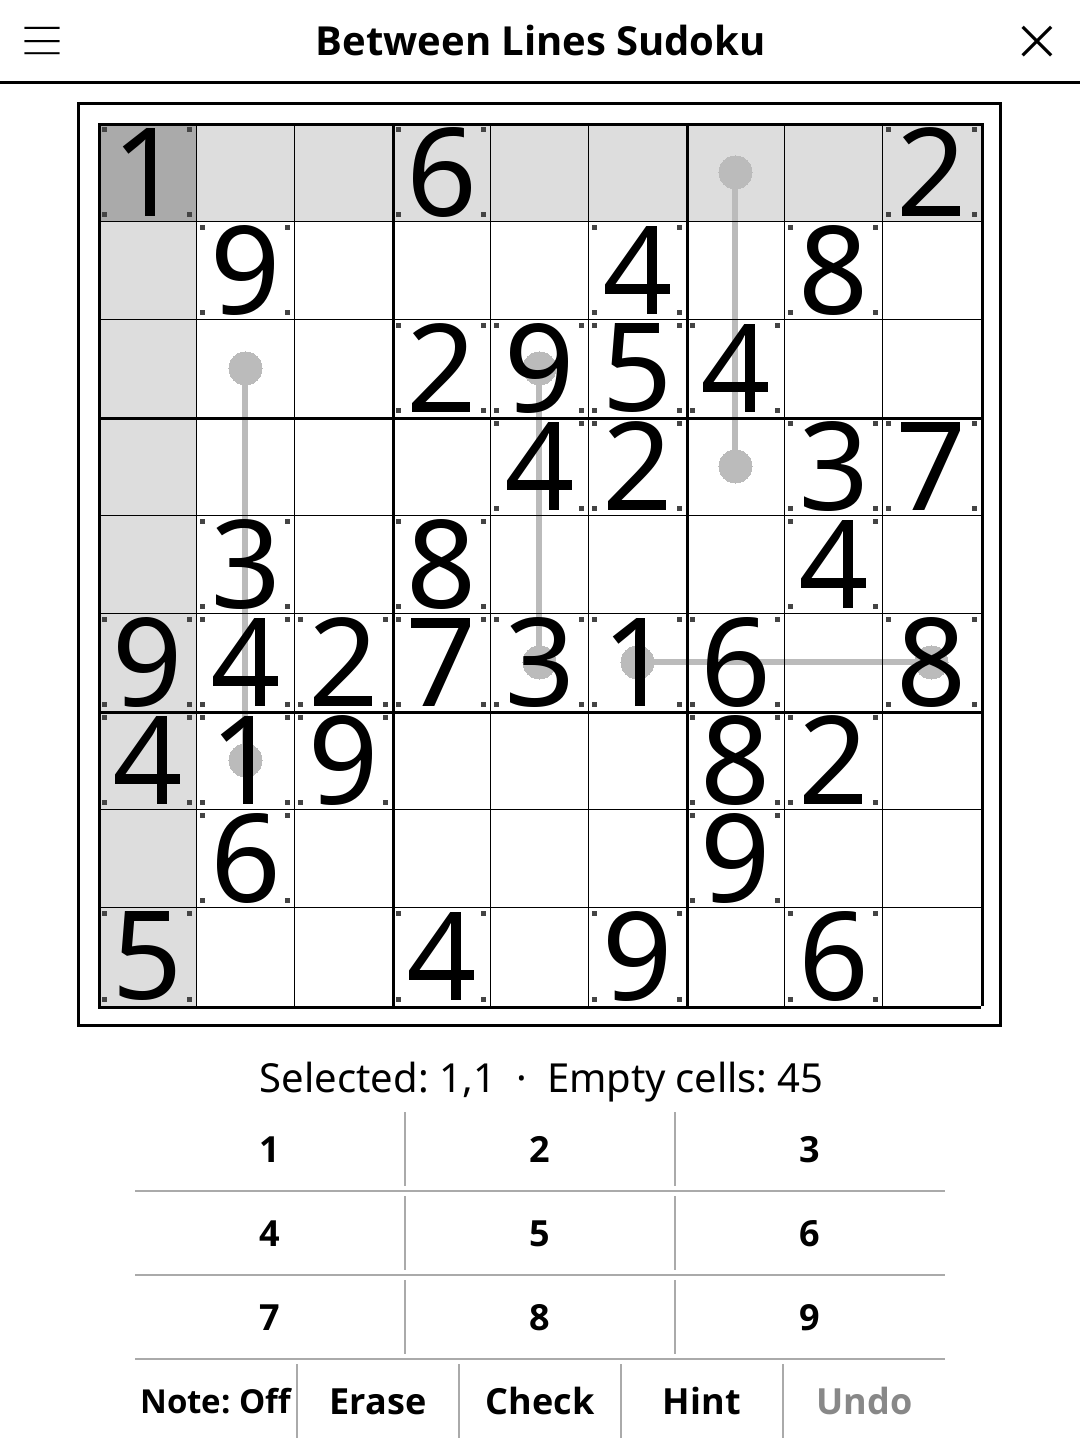
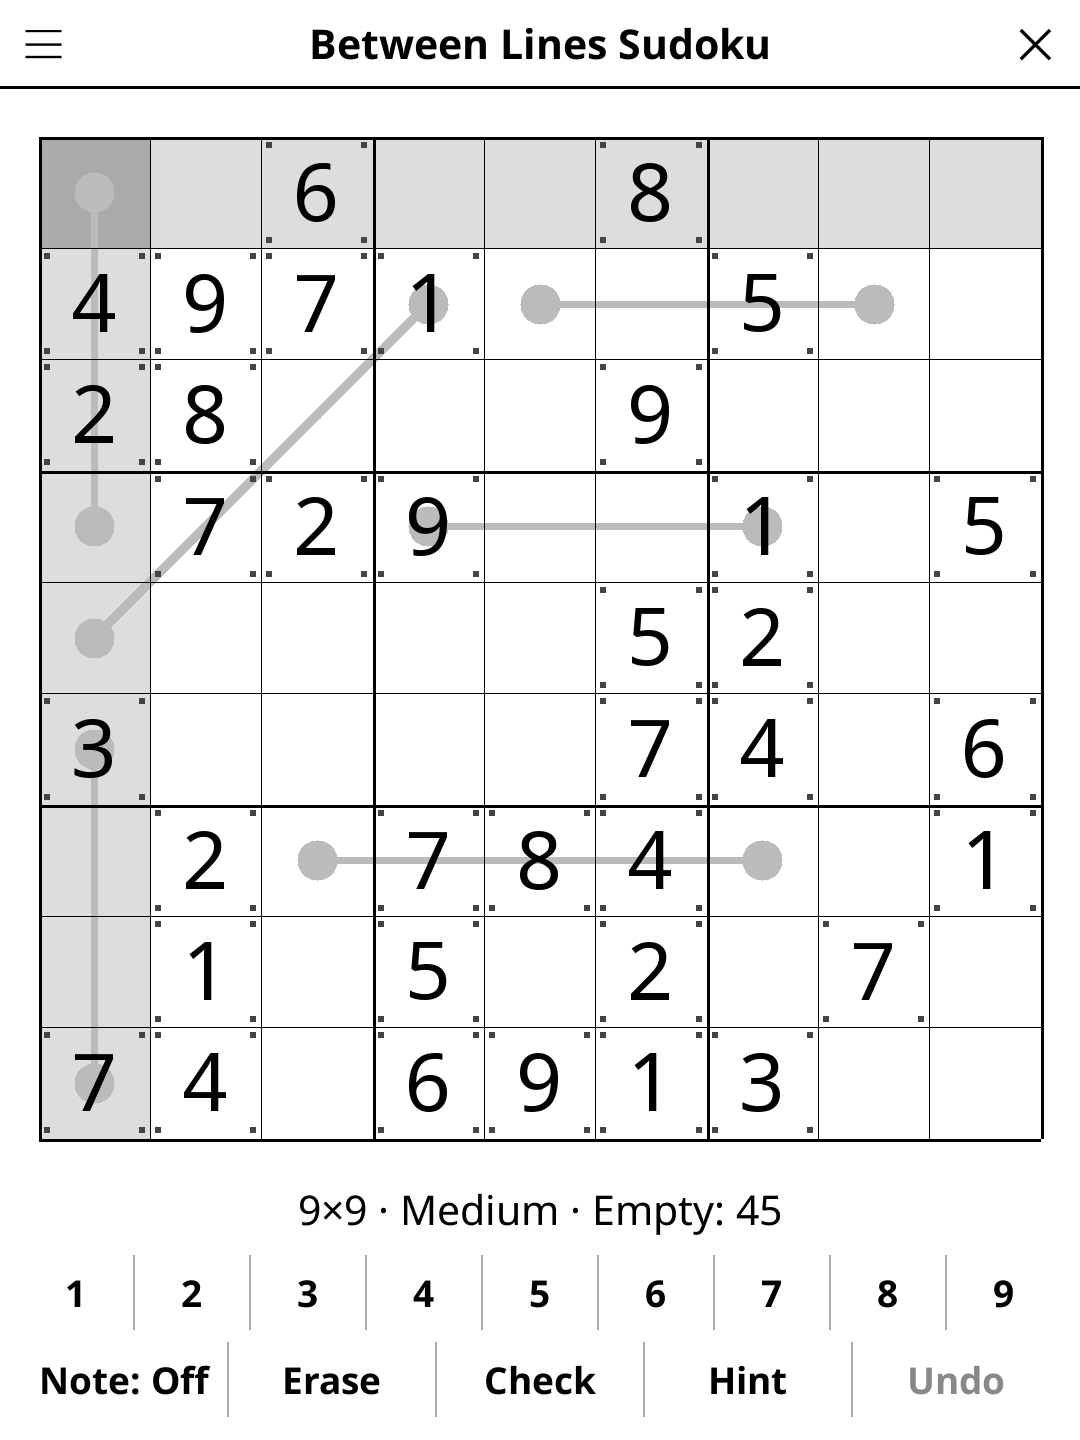
release: 1.4.0 -- redesigned screen, harmonised menu, New game at round end
Screen redesign (full-width action bar, unified pad, status line, larger
board), harmonised title-bar menu, and a "New game" button once the round
is over. See CHANGELOG.md.

diff --git a/CHANGELOG.md b/CHANGELOG.md
@@ -2,6 +2,24 @@
 
 All notable changes to this project will be documented in this file.
 
+## [1.4.0] - 2026-10-30
+
+### Changed
+- Redesigned play screen, shared with the other sudoku variants (sudoku-common
+  1.5.0): the digits sit on one even row of keys, Note/Erase/Check/Hint/Undo
+  on a full-width bar below, and the board takes all the room they leave, in
+  portrait and landscape.
+- The status line reads "9×9 · Medium · Empty: 45" and wraps in landscape
+  instead of being cut off.
+- Title-bar menu: "Difficulty: Medium" instead of "Diff: Medium", and "Show
+  solution" / "Hide solution" instead of "Show result" / "Hide result", like
+  every other game.
+- Once the puzzle is solved, the tool bar shows "New game" in place of its
+  buttons; an Undo that un-solves the grid brings them back.
+
+### Fixed
+- Digits overflowed their cells: the shared font fit accepted every size.
+
 ## [1.3.1] - 2026-10-02
 
 ### Fixed
